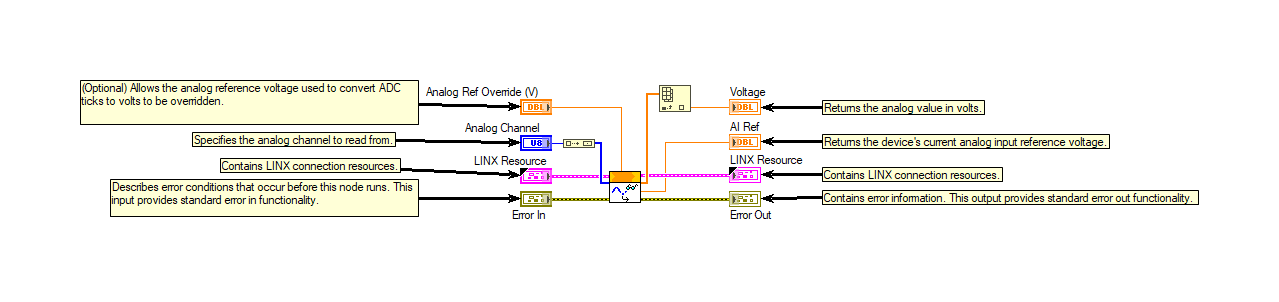
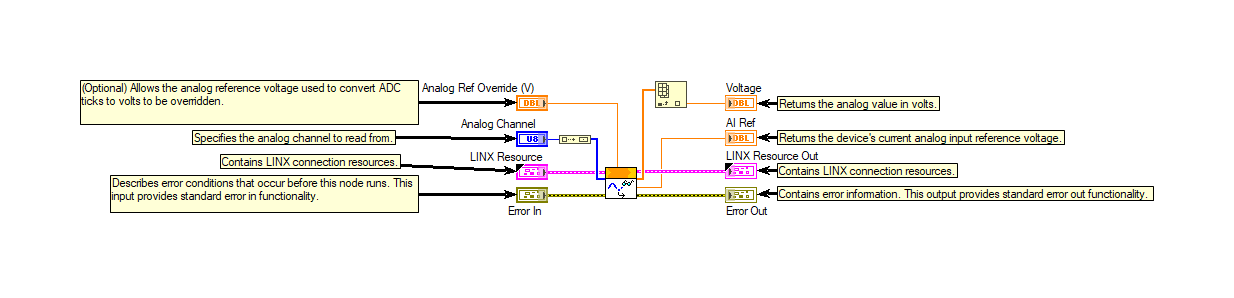
Publish to GitHub Pages

Changed region(s): [[0.0616, 0.2416, 0.9546, 0.7248]]

diff --git a/vidiff/pr-2/windows/vidiff/LabVIEW-vi.lib-MakerHub-LINX-Public-Peripherals-Analog-Analog_Read_1_Chan.vi/index.html b/vidiff/pr-2/windows/vidiff/LabVIEW-vi.lib-MakerHub-LINX-Public-Peripherals-Analog-Analog_Read_1_Chan.vi/index.html
@@ -4,7 +4,7 @@
 <body>
 <div class="report">
 <h1 class="report-title">LabVIEW VI Comparison Report</h1>
-<p class="generation-time">9/17/2026 12:52:17 AM</p>
+<p class="generation-time">9/18/2026 9:14:17 PM</p>
 <div class="compared-VIs">
 <details><summary class="difference-heading"><div class="dropdown-left">First VI: C:\workspace-base\LabVIEW\vi.lib\MakerHub\LINX\Public\Peripherals\Analog\Analog Read 1 Chan.vi</div><div class="dropdown-right">Second VI: C:\workspace\LabVIEW\vi.lib\MakerHub\LINX\Public\Peripherals\Analog\Analog Read 1 Chan.vi</div></summary>
 <table class="difference"><tr class="compared-vi-image-captions"><td class="compared-vi-image-caption">Front Panel Overview</td></tr>
@@ -29,26 +29,113 @@
 </ul>
 </div>
 <h2 class="section-header">Detailed Information</h2>
-<details class="cosmetic" closed>
+<details open>
 
-<summary class="difference-cosmetic-heading">1. Block Diagram objects</summary>
+<summary class="difference-heading">1. Block Diagram objects</summary>
 <table class="difference"><tr class="compared-vi-image-captions"><td class="compared-vi-image-caption">C:\workspace-base\LabVIEW\vi.lib\MakerHub\LINX\Public\Peripherals\Analog\Analog Read 1 Chan.vi</td><td class="difference-divider"></td><td class="compared-vi-image-caption">C:\workspace\LabVIEW\vi.lib\MakerHub\LINX\Public\Peripherals\Analog\Analog Read 1 Chan.vi</td></tr><tr class="compared-images"><td class="diff-image">
 
-<img class="difference-image" src="index_files/0_0_112_112_1.png" alt="index_files/0_0_112_112_1.png">
+<img class="difference-image" src="index_files/0_0_2424_2424_1.png" alt="index_files/0_0_2424_2424_1.png">
 </td><td class="difference-divider"></td><td class="diff-image">
 
-<img class="difference-image" src="index_files/0_0_112_112_2.png" alt="index_files/0_0_112_112_2.png">
+<img class="difference-image" src="index_files/0_0_2424_2424_2.png" alt="index_files/0_0_2424_2424_2.png">
 </td></tr></table>
 <ol class="detailed-description-list" type="A">
+<li class="diff-detail-cosmetic">Label  - moved : changed from "<tt>(-312,39)</tt>" to "<tt>(-308,43)</tt>"</li>
 <li class="diff-detail-cosmetic">Front Panel Terminal "Analog Ref Override (V)" - moved : changed from "<tt>(128,53)</tt>" to "<tt>(128,58)</tt>"</li>
 <li class="diff-detail-cosmetic">Index Array  - moved : changed from "<tt>(267,40)</tt>" to "<tt>(267,44)</tt>"</li>
 <li class="diff-detail-cosmetic">Front Panel Terminal "Voltage" - moved : changed from "<tt>(337,54)</tt>" to "<tt>(337,58)</tt>"</li>
-<li class="diff-detail-cosmetic">Label  - moved : changed from "<tt>(430,55)</tt>" to "<tt>(430,59)</tt>"</li>
+<li class="diff-detail">Front Panel Terminal "LINX Resource Out" - data type name : changed from "<tt>LINX Resource</tt>" to "<tt>LINX Resource Out</tt>"</li>
+<li class="diff-detail-cosmetic">Label  - moved : changed from "<tt>(430,55)</tt>" to "<tt>(389,59)</tt>"</li>
+<li class="diff-detail-cosmetic">Label  - moved : changed from "<tt>(430,126)</tt>" to "<tt>(389,126)</tt>"</li>
+</ol>
+</details>
+<details class="cosmetic" closed>
+
+<summary class="difference-cosmetic-heading">2. Block Diagram objects</summary>
+<table class="difference"><tr class="compared-vi-image-captions"><td class="compared-vi-image-caption">C:\workspace-base\LabVIEW\vi.lib\MakerHub\LINX\Public\Peripherals\Analog\Analog Read 1 Chan.vi</td><td class="difference-divider"></td><td class="compared-vi-image-caption">C:\workspace\LabVIEW\vi.lib\MakerHub\LINX\Public\Peripherals\Analog\Analog Read 1 Chan.vi</td></tr><tr class="compared-images"><td class="diff-image">
+
+<img class="difference-image" src="index_files/1_0_2184_2184_1.png" alt="index_files/1_0_2184_2184_1.png">
+</td><td class="difference-divider"></td><td class="diff-image">
+
+<img class="difference-image" src="index_files/1_0_2184_2184_2.png" alt="index_files/1_0_2184_2184_2.png">
+</td></tr></table>
+<ol class="detailed-description-list" type="A">
+<li class="diff-detail-cosmetic">Label  - moved : changed from "<tt>(-282,138)</tt>" to "<tt>(-278,138)</tt>"</li>
+</ol>
+</details>
+<details class="cosmetic" closed>
+
+<summary class="difference-cosmetic-heading">3. Block Diagram objects</summary>
+<table class="difference"><tr class="compared-vi-image-captions"><td class="compared-vi-image-caption">C:\workspace-base\LabVIEW\vi.lib\MakerHub\LINX\Public\Peripherals\Analog\Analog Read 1 Chan.vi</td><td class="difference-divider"></td><td class="compared-vi-image-caption">C:\workspace\LabVIEW\vi.lib\MakerHub\LINX\Public\Peripherals\Analog\Analog Read 1 Chan.vi</td></tr><tr class="compared-images"><td class="diff-image">
+
+<img class="difference-image" src="index_files/2_0_2410_2410_1.png" alt="index_files/2_0_2410_2410_1.png">
+</td><td class="difference-divider"></td><td class="diff-image">
+
+<img class="difference-image" src="index_files/2_0_2410_2410_2.png" alt="index_files/2_0_2410_2410_2.png">
+</td></tr></table>
+<ol class="detailed-description-list" type="A">
+<li class="diff-detail-cosmetic">Label  - moved : changed from "<tt>(-200,91)</tt>" to "<tt>(-196,93)</tt>"</li>
+</ol>
+</details>
+<details class="cosmetic" closed>
+
+<summary class="difference-cosmetic-heading">4. Block Diagram objects</summary>
+<table class="difference"><tr class="compared-vi-image-captions"><td class="compared-vi-image-caption">C:\workspace-base\LabVIEW\vi.lib\MakerHub\LINX\Public\Peripherals\Analog\Analog Read 1 Chan.vi</td><td class="difference-divider"></td><td class="compared-vi-image-caption">C:\workspace\LabVIEW\vi.lib\MakerHub\LINX\Public\Peripherals\Analog\Analog Read 1 Chan.vi</td></tr><tr class="compared-images"><td class="diff-image">
+
+<img class="difference-image" src="index_files/3_0_2192_2192_1.png" alt="index_files/3_0_2192_2192_1.png">
+</td><td class="difference-divider"></td><td class="diff-image">
+
+<img class="difference-image" src="index_files/3_0_2192_2192_2.png" alt="index_files/3_0_2192_2192_2.png">
+</td></tr></table>
+<ol class="detailed-description-list" type="A">
+<li class="diff-detail-cosmetic">Label  - moved : changed from "<tt>(-172,117)</tt>" to "<tt>(-168,117)</tt>"</li>
+</ol>
+</details>
+<details class="cosmetic" closed>
+
+<summary class="difference-cosmetic-heading">5. Block Diagram objects</summary>
+<table class="difference"><tr class="compared-vi-image-captions"><td class="compared-vi-image-caption">C:\workspace-base\LabVIEW\vi.lib\MakerHub\LINX\Public\Peripherals\Analog\Analog Read 1 Chan.vi</td><td class="difference-divider"></td><td class="compared-vi-image-caption">C:\workspace\LabVIEW\vi.lib\MakerHub\LINX\Public\Peripherals\Analog\Analog Read 1 Chan.vi</td></tr><tr class="compared-images"><td class="diff-image">
+
+<img class="difference-image" src="index_files/4_0_2268_2268_1.png" alt="index_files/4_0_2268_2268_1.png">
+</td><td class="difference-divider"></td><td class="diff-image">
+
+<img class="difference-image" src="index_files/4_0_2268_2268_2.png" alt="index_files/4_0_2268_2268_2.png">
+</td></tr></table>
+<ol class="detailed-description-list" type="A">
+<li class="diff-detail-cosmetic">Label  - moved : changed from "<tt>(430,93)</tt>" to "<tt>(389,93)</tt>"</li>
+</ol>
+</details>
+<details class="cosmetic" closed>
+
+<summary class="difference-cosmetic-heading">6. Block Diagram objects</summary>
+<table class="difference"><tr class="compared-vi-image-captions"><td class="compared-vi-image-caption">C:\workspace-base\LabVIEW\vi.lib\MakerHub\LINX\Public\Peripherals\Analog\Analog Read 1 Chan.vi</td><td class="difference-divider"></td><td class="compared-vi-image-caption">C:\workspace\LabVIEW\vi.lib\MakerHub\LINX\Public\Peripherals\Analog\Analog Read 1 Chan.vi</td></tr><tr class="compared-images"><td class="diff-image">
+
+<img class="difference-image" src="index_files/5_0_2197_2197_1.png" alt="index_files/5_0_2197_2197_1.png">
+</td><td class="difference-divider"></td><td class="diff-image">
+
+<img class="difference-image" src="index_files/5_0_2197_2197_2.png" alt="index_files/5_0_2197_2197_2.png">
+</td></tr></table>
+<ol class="detailed-description-list" type="A">
+<li class="diff-detail-cosmetic">Label  - moved : changed from "<tt>(430,149)</tt>" to "<tt>(389,149)</tt>"</li>
 </ol>
 </details>
 <details open>
 
-<summary class="difference-heading">2. VI Attribute - Miscellaneous</summary>
+<summary class="difference-heading">7. Front Panel - Type Definition</summary>
+<table class="difference"><tr class="compared-vi-image-captions"><td class="compared-vi-image-caption">C:\workspace-base\LabVIEW\vi.lib\MakerHub\LINX\Public\Peripherals\Analog\Analog Read 1 Chan.vi</td><td class="difference-divider"></td><td class="compared-vi-image-caption">C:\workspace\LabVIEW\vi.lib\MakerHub\LINX\Public\Peripherals\Analog\Analog Read 1 Chan.vi</td></tr><tr class="compared-images"><td class="diff-image">
+
+<img class="difference-image" src="index_files/6_0_711_711_1.png" alt="index_files/6_0_711_711_1.png">
+</td><td class="difference-divider"></td><td class="diff-image">
+
+<img class="difference-image" src="index_files/6_0_711_711_2.png" alt="index_files/6_0_711_711_2.png">
+</td></tr></table>
+<ol class="detailed-description-list" type="A">
+<li class="diff-detail">Type Definition "LINX Resource Out" - data type name : changed from "<tt>LINX Resource</tt>" to "<tt>LINX Resource Out</tt>"</li>
+</ol>
+</details>
+<details open>
+
+<summary class="difference-heading">8. VI Attribute - Miscellaneous</summary>
 <ol class="detailed-description-list" type="A">
 <li class="diff-detail">	VI Version : changed from "19.0" to "26.0"</li>
 </ol>
